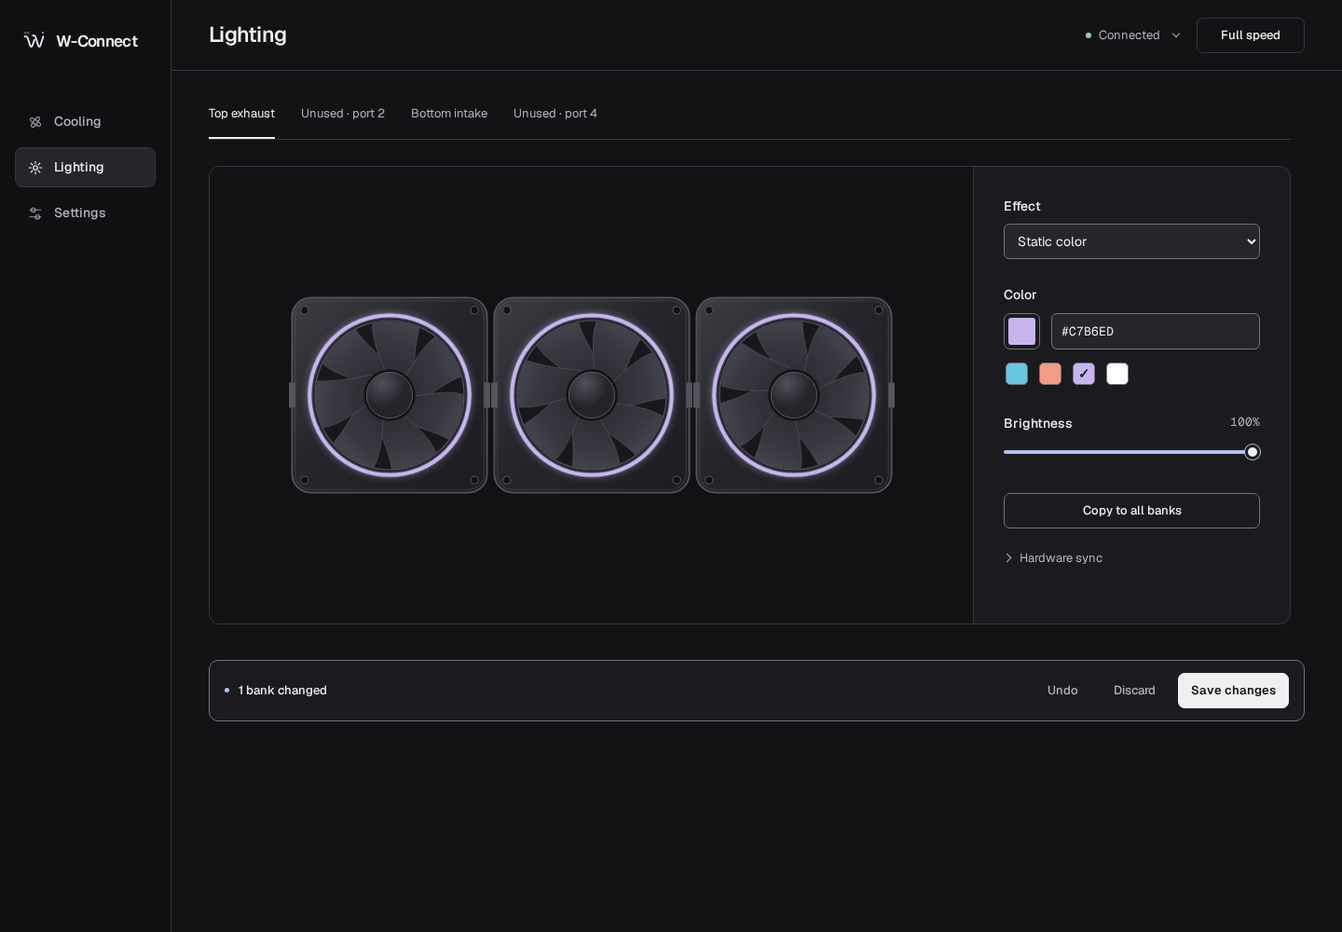
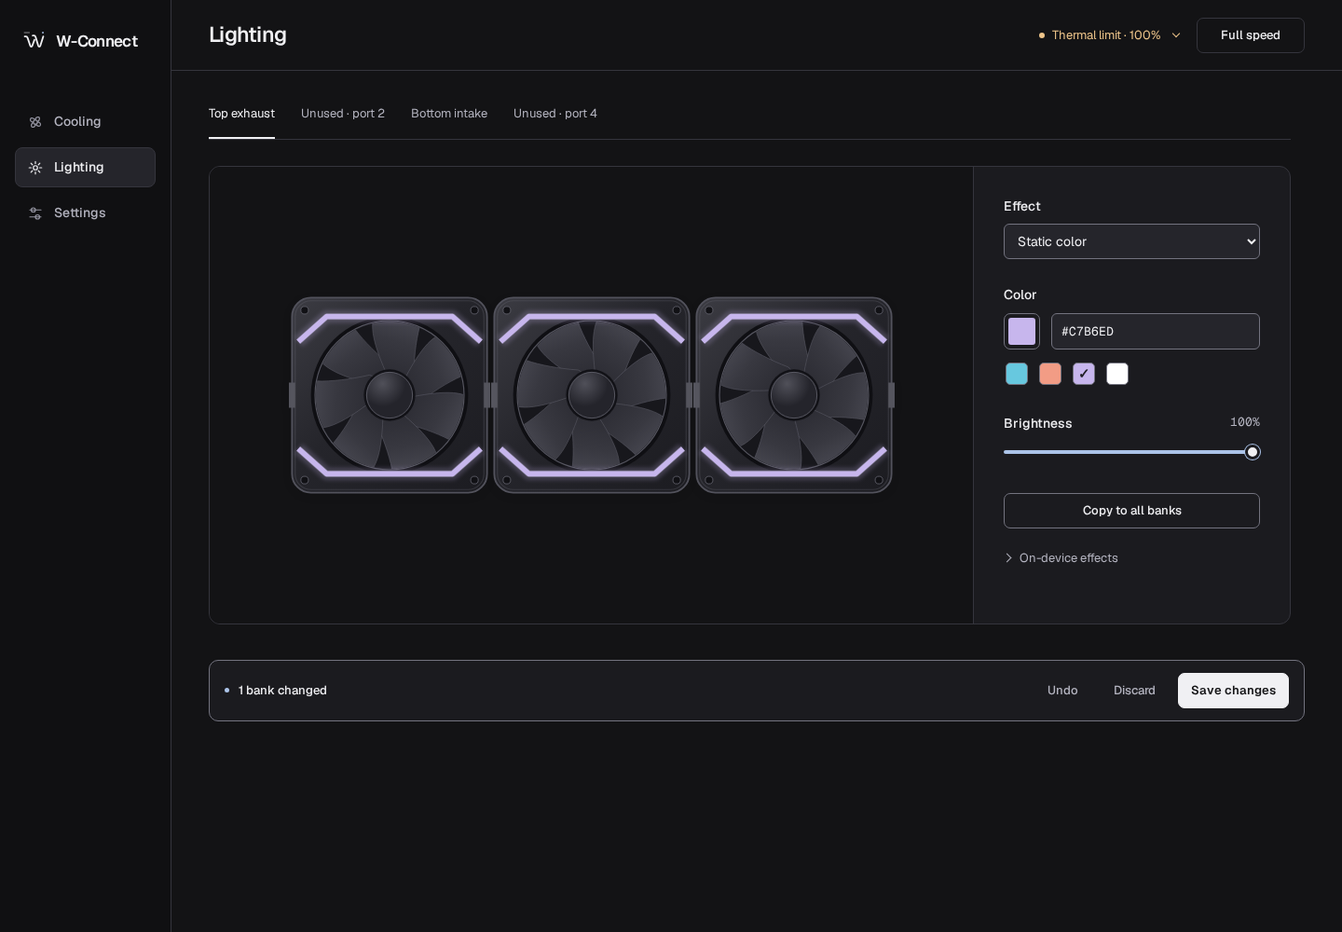
Match SL frame lighting and expose native controller effects

Changed region(s): [[0.2188, 0.31, 0.6562, 0.527], [0.7812, 0.031, 0.875, 0.062], [0.75, 0.589, 0.8438, 0.62]]

diff --git a/web/app.js b/web/app.js
@@ -60,12 +60,23 @@
     return finite(sensors.cpu) && finite(sensors.gpu) ? Math.max(sensors.cpu,sensors.gpu) : null;
   }
   let fanId=0;
-  function fanSVG(index) {
+  function lightingLayout() {
+    const pid=state?.controller?.pid;
+    const id=typeof pid==='number'?pid:Number.parseInt(pid,16);
+    return [0xa100,0x7750,0xa103,0xa105].includes(id)?'sl-frame':'ring';
+  }
+  function hardwareBrightness(value) {return value===0?0:clamp(Math.round(value/25)*25,25,100);}
+  function fanSVG(index, layout, mode) {
     const id=`fan-${++fanId}`;
-    return `<svg class="fan-unit" viewBox="0 0 64 64" aria-hidden="true">
-      <defs><linearGradient id="${id}-frame" x1="0" y1="0" x2="1" y2="1"><stop stop-color="#3c3c43"/><stop offset=".45" stop-color="#25252b"/><stop offset="1" stop-color="#1c1c21"/></linearGradient><linearGradient id="${id}-blade" x1="0" y1="0" x2="1" y2="1"><stop stop-color="#50505a"/><stop offset=".45" stop-color="#383840"/><stop offset="1" stop-color="#27272e"/></linearGradient><radialGradient id="${id}-hub" cx=".35" cy=".25"><stop stop-color="#505059"/><stop offset="1" stop-color="#24242b"/></radialGradient><clipPath id="${id}-aperture"><circle cx="32" cy="32" r="23.5"/></clipPath></defs>
-      <rect x="1" y="1" width="62" height="62" rx="6" fill="url(#${id}-frame)" stroke="#52525c" stroke-width=".55"/><rect x="2" y="2" width="60" height="60" rx="5" fill="none" stroke="#6c6c77" stroke-opacity=".3" stroke-width=".35"/><circle cx="32" cy="32" r="26" fill="#0f0f13"/><circle class="fan-glow" cx="32" cy="32" r="25.4"/><circle class="fan-ring" cx="32" cy="32" r="25.4"/><circle cx="32" cy="32" r="23.7" fill="#17171c" stroke="#55555f" stroke-width=".35"/>
+    const edge=layout==='sl-frame';
+    const shape=edge?'<path d="M3 15L12 7H52L61 15M3 49L12 57H52L61 49"/>':'<circle cx="32" cy="32" r="25.4"/>';
+    const spectrum=mode==='rainbow'?`url(#${id}-spectrum)`:'currentColor';
+    return `<svg class="fan-unit" viewBox="0 0 64 64" aria-hidden="true" style="--phase:${-index*1.25}s">
+      <defs><linearGradient id="${id}-frame" x1="0" y1="0" x2="1" y2="1"><stop stop-color="#3c3c43"/><stop offset=".45" stop-color="#25252b"/><stop offset="1" stop-color="#1c1c21"/></linearGradient><linearGradient id="${id}-blade" x1="0" y1="0" x2="1" y2="1"><stop stop-color="#50505a"/><stop offset=".45" stop-color="#383840"/><stop offset="1" stop-color="#27272e"/></linearGradient><radialGradient id="${id}-hub" cx=".35" cy=".25"><stop stop-color="#505059"/><stop offset="1" stop-color="#24242b"/></radialGradient><clipPath id="${id}-aperture"><circle cx="32" cy="32" r="23.5"/></clipPath><linearGradient id="${id}-spectrum" gradientUnits="userSpaceOnUse" x1="0" y1="0" x2="64" y2="0"><stop stop-color="#ff4848"/><stop offset=".17" stop-color="#ffcb45"/><stop offset=".34" stop-color="#79e864"/><stop offset=".5" stop-color="#45dfe8"/><stop offset=".67" stop-color="#6387ff"/><stop offset=".84" stop-color="#da65fa"/><stop offset="1" stop-color="#ff4848"/></linearGradient></defs>
+      <rect x="1" y="1" width="62" height="62" rx="6" fill="url(#${id}-frame)" stroke="#52525c" stroke-width=".55"/><rect x="2" y="2" width="60" height="60" rx="5" fill="none" stroke="#6c6c77" stroke-opacity=".3" stroke-width=".35"/><circle cx="32" cy="32" r="25" fill="#0f0f13"/><circle cx="32" cy="32" r="23.7" fill="#17171c" stroke="#55555f" stroke-width=".35"/>
       <g clip-path="url(#${id}-aperture)"><g class="fan-blades">${Array.from({length:7},(_,i) => `<path transform="rotate(${i*360/7+index*17} 32 32)" d="M28 29C20 27 10 24 9 19C10 14 16 11 21 11C24 15 28 19 33 23L35 28Z" fill="url(#${id}-blade)" stroke="#5a5a65" stroke-width=".16"/>`).join('')}</g></g><circle cx="32" cy="32" r="8.2" fill="#121217"/><circle cx="32" cy="32" r="7.3" fill="url(#${id}-hub)" stroke="#62626d" stroke-width=".25"/>
+      <g class="led-diffuser" fill="none" stroke="#55555e" stroke-width="${edge?2.1:1.3}" stroke-linejoin="round">${shape}</g>
+      <g class="led-motion"><g class="led-output" fill="none" stroke="${spectrum}" stroke-linejoin="round"><g class="led-glow">${shape}</g><g class="led-strip" stroke-width="${edge?1.7:1.1}">${shape}</g></g></g>
       ${[[5,5],[59,5],[5,59],[59,59]].map(([x,y])=>`<circle cx="${x}" cy="${y}" r="1.2" fill="#111115" stroke="#62626d" stroke-width=".25"/>`).join('')}<path d="M0 28h2v8H0m62-8h2v8h-2" fill="#55555e"/></svg>`;
   }
   function renderChannels() {
@@ -213,25 +224,28 @@
   function renderLighting() {
     const config = channel(); if (!config) return;
     const lighting = config.lighting || {mode:'preserve',color:'#67c8df',brightness:70};
+    const brightness=hardwareBrightness(lighting.brightness), layout=lightingLayout();
     $('lighting-unsupported').hidden = Boolean(state.controller?.lighting_supported);
     $('lighting-controls').disabled = !state.controller?.lighting_supported;
     $('lighting-mode').value = lighting.mode;
     $('lighting-color').value = lighting.color;
     if (document.activeElement !== $('color-hex')) {$('color-hex').value = lighting.color.toUpperCase();$('color-hex').removeAttribute('aria-invalid');}
     $('color-label').textContent = lighting.color.toUpperCase();
-    $('lighting-brightness').value = lighting.brightness;renderRange($('lighting-brightness'));
-    $('brightness-label').textContent = `${lighting.brightness}%`;
+    $('lighting-brightness').value = brightness;renderRange($('lighting-brightness'));
+    $('brightness-label').textContent = `${brightness}%`;
     $('lighting-brightness').title='Hardware brightness uses 25% steps';
     document.querySelectorAll('[data-color]').forEach(el=>el.setAttribute('aria-pressed',String(el.dataset.color.toLowerCase()===lighting.color.toLowerCase())));
-    $('color-controls').hidden = lighting.mode !== 'static';
+    $('color-controls').hidden = !['static','breathing'].includes(lighting.mode);
     $('lighting-brightness').disabled = ['preserve','off'].includes(lighting.mode);
     $('lighting-preview').classList.toggle('is-off',lighting.mode==='off');
     $('lighting-preview').classList.toggle('is-preserve',lighting.mode==='preserve');
     $('lighting-preview').classList.toggle('is-rainbow',lighting.mode==='rainbow');
+    $('lighting-preview').classList.toggle('is-breathing',lighting.mode==='breathing');
+    $('lighting-preview').dataset.layout=layout;
     $('lighting-preview').style.setProperty('--light-color',lighting.color);
-    $('lighting-preview').style.setProperty('--led-opacity',lighting.brightness/100);
-    $('lighting-preview').setAttribute('aria-label',`${config.fan_count} fans. ${lighting.mode==='preserve'?'Current lighting is not read back':lighting.mode==='off'?'Lights off':`${lighting.mode} lighting preview, ${lighting.brightness}% brightness`}.`);
-    $('lighting-preview').innerHTML = `<div class="fan-bank">${Array.from({length:clamp(config.fan_count || 1,1,6)},(_,index)=>fanSVG(index)).join('')}</div><span class="preview-caption">${lighting.mode==='preserve'?'Current hardware lighting is not read back':''}</span>`;
+    $('lighting-preview').style.setProperty('--led-opacity',brightness/100);
+    $('lighting-preview').setAttribute('aria-label',`${layout==='sl-frame'?'SL frame lighting':'Simplified lighting layout'}, ${config.fan_count} fans. ${lighting.mode==='preserve'?'Current lighting is not read back':lighting.mode==='off'?'Lights off':`${lighting.mode} lighting preview, ${brightness}% brightness`}.`);
+    $('lighting-preview').innerHTML = `<div class="fan-bank">${Array.from({length:clamp(config.fan_count || 1,1,6)},(_,index)=>fanSVG(index,layout,lighting.mode)).join('')}</div><span class="preview-caption">${lighting.mode==='preserve'?'Current hardware lighting is not read back':''}</span>`;
   }
   function renderSystem() {
     const rows = [['Driver verification',state.controller?.hardware_tested === true ? 'Hardware-tested on SL v1 a100' : state.controller?.connected ? 'Protocol-verified · hardware untested' : 'No active controller'],['Application',`W-Connect ${state.version || ''}`],['Platform',state.platform || 'Unknown'],['Controller',state.controller?.name || 'Unavailable'],['USB identifier',`${usbHex(state.controller?.vid)}:${usbHex(state.controller?.pid)}`],['Sensor source',state.sensors?.source || 'Unavailable'],['Polling interval',`${(state.config?.poll_ms || 2000)/1000} seconds`],['Running for',formatUptime(state.uptime_secs)],['Connection',failure ? 'Interrupted' : state.controller?.connected ? 'Connected' : 'Unavailable']];
@@ -259,7 +273,7 @@
     const editingField = document.activeElement?.matches('input, select') || dragging !== null;
     const shouldReset = !draft || reset || (!dirty && !editingField && configChanged);
     if (shouldReset) { draft=clone(state.config); selected=Math.min(selected,draft.channels.length-1); dirty=false; renderEditor(); dirtyChanged(); }
-    if(capabilitiesChanged)renderFanCountOptions();
+    if(capabilitiesChanged){renderFanCountOptions();if(!shouldReset)renderLighting();}
     $('loading').hidden=true;
     showView(view); renderTelemetry();
   }
@@ -382,7 +396,7 @@
       if(![1,2,3,4,5,6].includes(bank.fan_count)||!['curve','fixed'].includes(bank.mode)||!['cpu','gpu','max'].includes(bank.source)||!Number.isInteger(bank.fixed_duty)||bank.fixed_duty<40||bank.fixed_duty>100)throw new Error('The profile contains invalid bank settings.');
       const points=bank.curve;
       if(!Array.isArray(points)||points.length<2||points.length>10||points.some((p,i)=>!finite(p.temp)||!finite(p.duty)||p.temp<20||p.temp>85||p.duty<40||p.duty>100||(i>0&&(p.temp<=points[i-1].temp||p.duty<points[i-1].duty)))||points.at(-1).duty!==100)throw new Error('Curves must rise safely from 40% and reach 100% by 85°C.');
-      const l=bank.lighting;if(!l||!['preserve','static','rainbow','off'].includes(l.mode)||!/^#[0-9a-f]{6}$/i.test(l.color)||!Number.isInteger(l.brightness)||l.brightness<0||l.brightness>100)throw new Error('The profile contains invalid lighting settings.');
+      const l=bank.lighting;if(!l||!['preserve','static','breathing','rainbow','off'].includes(l.mode)||!/^#[0-9a-f]{6}$/i.test(l.color)||!Number.isInteger(l.brightness)||l.brightness<0||l.brightness>100)throw new Error('The profile contains invalid lighting settings.');
     }
     // Select only supported fields; never pass extra imported data to hardware.
     return {controller:clone(draft?.controller || {allow_untested:false,serial:null}),poll_ms:c.poll_ms,channels:c.channels.map(b=>({name:b.name,fan_count:b.fan_count,mode:b.mode,source:b.source,fixed_duty:b.fixed_duty,curve:b.curve.map(p=>({temp:p.temp,duty:p.duty})),lighting:{mode:b.lighting.mode,color:b.lighting.color,brightness:b.lighting.brightness}}))};

diff --git a/web/style.css b/web/style.css
@@ -1053,20 +1053,7 @@ input[type="range"]:disabled {
 .lighting-preview.is-preserve .fan-unit {
   color: var(--fan-stroke);
 }
-.lighting-preview.is-rainbow .fan-unit {
-  animation: spectrum-flow 12s linear infinite;
-}
-.lighting-preview.is-rainbow .fan-unit:nth-child(3n + 1) {
-  color: #8bb9d0;
-}
-.lighting-preview.is-rainbow .fan-unit:nth-child(3n + 2) {
-  color: #c7b6ed;
-  animation-delay: -4s;
-}
-.lighting-preview.is-rainbow .fan-unit:nth-child(3n) {
-  color: #e4ad99;
-  animation-delay: -8s;
-}
+
 fieldset {
   border: 0;
   padding: 0;
@@ -1574,18 +1561,7 @@ body.has-draft .toast {
     stroke-dashoffset: 100;
   }
 }
-@keyframes spectrum-flow {
-  0%,
-  100% {
-    color: #8bb9d0;
-  }
-  33% {
-    color: #c7b6ed;
-  }
-  66% {
-    color: #e4ad99;
-  }
-}
+
 @media (min-width: 1600px) {
   main {
     padding-top: 38px;
@@ -2526,4 +2502,39 @@ input[type="number"] {
   flex-shrink: 0;
   font-size: 12px;
   white-space: nowrap;
+}
+
+/* The SL's diffusers sit on the frame; its hub and blades are unlit. */
+.led-output {
+  opacity: var(--led-opacity, 1);
+}
+.led-glow {
+  stroke-width: 4;
+  opacity: 0.2;
+  filter: blur(0.7px);
+}
+.lighting-preview.is-rainbow .led-motion {
+  animation: led-spectrum 6s linear infinite;
+  animation-delay: var(--phase, 0s);
+}
+.lighting-preview.is-breathing .led-motion {
+  animation: led-breath 11s ease-in-out infinite;
+}
+.lighting-preview.is-off .led-output,
+.lighting-preview.is-preserve .led-output {
+  opacity: 0;
+}
+@keyframes led-spectrum {
+  to {
+    filter: hue-rotate(-360deg);
+  }
+}
+@keyframes led-breath {
+  0%,
+  100% {
+    opacity: 0.08;
+  }
+  50% {
+    opacity: 1;
+  }
 }

diff --git a/web/index.html b/web/index.html
@@ -309,6 +309,7 @@
                 ><select id="lighting-mode">
                   <option value="preserve">Keep current</option>
                   <option value="static">Static color</option>
+                  <option value="breathing">Breathing</option>
                   <option value="rainbow">Rainbow</option>
                   <option value="off">Off</option>
                 </select>
@@ -364,10 +365,18 @@
                   Copy to all banks
                 </button>
                 <details class="control-note">
-                  <summary>Hardware sync</summary>
+                  <summary>On-device effects</summary>
                   <p>
-                    Saving a lighting change disables motherboard RGB sync for
-                    this controller.
+                    Save uploads the effect to the controller. It keeps running
+                    after W-Connect exits while the controller stays powered.
+                  </p>
+                  <p>
+                    The saved profile is restored when W-Connect starts.
+                    Retention after power loss is unverified.
+                  </p>
+                  <p>
+                    Animation timing is approximate in this preview. Applying
+                    lighting disables motherboard RGB sync.
                   </p>
                 </details>
               </fieldset>

diff --git a/src/config.rs b/src/config.rs
@@ -137,7 +137,8 @@ impl Config {
             if c.curve.last().unwrap().duty != 100. {
                 return Err("Curves must end at 100% by 85°C".into());
             }
-            if !["preserve", "static", "rainbow", "off"].contains(&c.lighting.mode.as_str())
+            if !["preserve", "static", "breathing", "rainbow", "off"]
+                .contains(&c.lighting.mode.as_str())
                 || c.lighting.brightness > 100
             {
                 return Err("Invalid lighting mode or brightness".into());
@@ -214,6 +215,27 @@ mod tests {
         assert_eq!(interpolate(p, 0.), 40.);
         assert_eq!(interpolate(p, 40.), 42.5);
         assert_eq!(interpolate(p, 100.), 100.);
+    }
+    #[test]
+    fn native_lighting_profile_survives_save_and_reload() {
+        let mut c = Config::default();
+        c.channels[0].lighting = Lighting {
+            mode: "breathing".into(),
+            color: "#67c8df".into(),
+            brightness: 75,
+        };
+        let nonce = std::time::SystemTime::now()
+            .duration_since(std::time::UNIX_EPOCH)
+            .unwrap()
+            .as_nanos();
+        let dir =
+            std::env::temp_dir().join(format!("w-connect-lighting-{}-{nonce}", std::process::id()));
+        let file = dir.join("config.json");
+        c.save(&file).unwrap();
+        let restored: Config = serde_json::from_slice(&std::fs::read(&file).unwrap()).unwrap();
+        assert_eq!(restored, c);
+        restored.validate().unwrap();
+        std::fs::remove_dir_all(dir).unwrap();
     }
     #[test]
     fn rejects_unsafe_and_malformed_config() {

diff --git a/src/device.rs b/src/device.rs
@@ -780,6 +780,32 @@ mod tests {
         }
     }
     #[test]
+    fn breathing_uploads_native_effect_and_one_color_buffer() {
+        let packets = lighting_reports(model(0xa100), 0, 3, "breathing", [17, 34, 51], 70).unwrap();
+        assert!(packets.contains(&Packet::Control(vec![0xe0, 0x10, 2, 0, 0, 1])));
+        let colors: Vec<_> = packets
+            .iter()
+            .filter_map(|packet| {
+                if let Packet::Color(colors) = packet {
+                    Some(colors)
+                } else {
+                    None
+                }
+            })
+            .collect();
+        assert_eq!(colors.len(), 1);
+        assert_eq!(&colors[0][..2], &[0xe0, 0x30]);
+        for led in colors[0][2..146].as_chunks::<3>().0 {
+            assert_eq!(led, &[17, 51, 34]);
+        }
+        assert!(colors[0][146..].iter().all(|byte| *byte == 0));
+        assert_eq!(
+            packets.last(),
+            Some(&Packet::Control(vec![0xe0, 0x60, 0, 1]))
+        );
+        assert_eq!(packets.len(), 6);
+    }
+    #[test]
     fn brightness_off_and_model_fan_limits() {
         for (percent, encoded) in [(0, 8), (25, 3), (50, 2), (75, 1), (100, 0)] {
             let p = lighting_reports(model(0xa100), 0, 1, "rainbow", [0; 3], percent).unwrap();

diff --git a/docs/validation.md b/docs/validation.md
@@ -15,8 +15,8 @@ Host: Manjaro Linux x86_64; UNI FAN SL v1.8, USB `0cf2:a100`, interface1. CPU te
 
 ## Automated validation
 
-- Sixteen Rust unit tests (0.2): packet encoding and channel selection, descriptor matching, RPM parsing/rejection, RBG lighting, fan-count limits, thermal override/missing sensors/stale data, ramp-down, interpolation, configuration validation and origin protection.
-- Fourteen DOM behavior tests (current source): real/stale telemetry, draft preservation, save headers, emergency/resume, curve constraints, demo mode, unsupported lighting, critical-temperature notices.
+- Eighteen Rust unit tests (current source): packet encoding and channel selection, descriptor matching, RPM parsing/rejection, RBG lighting, fan-count limits, thermal override/missing sensors/stale data, ramp-down, interpolation, configuration validation and origin protection.
+- Fifteen DOM behavior tests (current source): real/stale telemetry, draft preservation, save headers, emergency/resume, curve constraints, demo mode, unsupported lighting, critical-temperature notices.
 - Rust formatting, Clippy with warnings denied, JavaScript syntax and release build.
 - Review by separate agents cross-checked protocol against vendor decompilation and prior art, then examined control-loop safety and installers.
 
@@ -27,6 +27,14 @@ The original mixed-functionality design ratings were superseded by [fresh-contex
 The neutral-theme revision passed browser checks across six view/theme combinations and 360, 390, 768, 1280 and 1440 px widths. Status changes (normal, hot, sensor unavailable, connection lost, recovery) left header and cooling-control geometry unchanged. The action footer did not overlap scrolling content. Keyboard curve editing, draft retention and reduced-motion handling passed. Axe reported zero A/AA findings. Both fonts are embedded, licensed and served locally. The extracted Linux package passed its USB-free smoke test with the new font routes.
 
 Additional driver tests cover exact family-specific PWM registers, legacy output transport, V2 RPM offsets, independent lighting rings, six-fan quantities, frame commits, spectrum palettes, descriptor validation, unknown-ID rejection, opt-in and unique selection. UI tests cover explicit activation, six-fan capability refresh and ensuring imports do not grant untested-driver permission. The original SL transfers remain covered by regression fixtures. A post-expansion browser scan, including the expanded controller catalog, also reported zero A/AA findings across all six view/theme combinations. The installed0.2 release reconnected to the actual SL hub, read both populated banks, returned the seven-model catalog with untested support disabled, and rejected a six-fan configuration for the four-fan SL model before any hardware change.
+
+## Controller-resident lighting
+
+SL v1 `0cf2:a100` was tested again with native breathing on the top bank while the bottom bank retained rainbow. After a clean service stop, process lookup confirmed that no `w-connect` process remained. The camera recorded 30 seconds at two frames per second: the top frame strips completed repeated red breathing cycles, and the bottom rainbow continued moving. This demonstrates controller-resident effects while powered, independently of both UI and service. The preview now uses SL frame strips, and its breathing period approximates the observed cycle.
+
+Restarting the service loaded and applied the saved breathing profile. The original rainbow profile was then restored and confirmed identical to the pre-test configuration. The populated banks read approximately 1800/1770 RPM afterward; clean stop had requested full cooling. Camera footage and credentials remain private and excluded from source/distribution.
+
+No system shutdown, SATA-power removal or firmware flash was performed. Controller persistence after complete power removal remains unverified; no nonvolatile-save command was found. See [controller-memory evidence](protocol.md#controller-memory-and-application-exit).
 
 ## Windows
 

diff --git a/docs/protocol.md b/docs/protocol.md
@@ -80,13 +80,23 @@ These are **SL v1** commands. SL-Infinity and AL use different ring/port layouts
 | Set bank fan quantity | Feature | `e0 10 32 ((c << 4) | count)` |
 | Upload bank colors | Output | `e0 (30 | c) [R B G]…` |
 | Set effect | Feature | `e0 (10 | c) mode speed direction brightness` |
-| Commit | Feature | `e0 60 00 01` |
+| Synchronize animation frame | Feature | `e0 60 00 01` |
 
 The SL v1 has at most four fans per bank and sixteen LED addresses per fan. Static colors repeat each fan's color across its sixteen addresses. Color triplets are **red, blue, green**, not RGB or GRB. The remainder of the 353-byte output report is zero-filled.
 
-W-Connect implements static (`mode=1`), breathing (`2`, available in the driver), rainbow (`5`), and off (static with brightness `8`). Effect speed `0` is medium; direction `0` is left-to-right. Brightness is discrete: `0` = 100%, `1` = 75%, `2` = 50%, `3` = 25%, `8` = off. The app rounds a requested brightness to these hardware levels. `preserve` sends no lighting commands.
+W-Connect implements static (`mode=1`), breathing (`2`), rainbow (`5`), and off (static with brightness `8`). Effect speed `0` is medium; direction `0` is left-to-right. Brightness is discrete: `0` = 100%, `1` = 75%, `2` = 50%, `3` = 25%, `8` = off. The app rounds a requested brightness to these hardware levels. `preserve` sends no lighting commands.
 
 Disabling motherboard sync and leaving merge mode are controller-wide lighting changes. They are necessary for independent bank effects and are applied only when the user requests a lighting change. Fan count is user configuration; it cannot be inferred reliably from one tachometer reading per bank.
+
+### Controller memory and application exit
+
+Static, breathing and rainbow are native controller effects. The host uploads a color buffer and effect settings once; it does not stream animation frames. Closing W-Connect leaves lighting alone. The saved JSON profile is reapplied when the service starts or reconnects.
+
+This is **controller-resident operation while powered**, not a verified write to flash. `E0 60 00 01` sets the animation frame; it is not an EEPROM-save command. No effect/color readback or explicit nonvolatile-save method was found in the SL v1 vendor path. OpenRGB also marks persistent saving as unsupported for this controller. Retention after complete power removal remains unverified.
+
+The [Lian Li FAQ](https://lian-li.com/faq/faq_l-connect-3/) documents continued effects after stopping L-Connect's service. Independent evidence: [OpenRGB SL controller capabilities](https://raw.githubusercontent.com/CalcProgrammer1/OpenRGB/master/Controllers/LianLiController/LianLiUniHubSLController/RGBController_LianLiUniHubSL.cpp), plus vendor `SLFanController.setLightingConfig`, `SLFanDevice.SetFrame` and PC-side `DeviceSettingManager.Save` described in [the interoperability notes](vendor-reverse-engineering.md).
+
+The SL preview uses its angular frame diffusers and unlit blades/hub. Its 32 physical LEDs do not imply 32 independently addressed colors: the verified protocol remains 16 logical addresses per fan. Rainbow/breathing previews approximate timing and LED traversal; they are not hardware readback.
 
 ## Platform requirements and operating policy
 

diff --git a/README.md b/README.md
@@ -10,9 +10,10 @@ A small, local controller for **Lian Li UNI FAN hubs**, on Linux and Windows. Na
 - Four independent fan banks with measured RPM, editable names and fan counts.
 - CPU, GPU, or hotter-of-both temperature curves; draggable graph and exact numeric editing.
 - Quiet, balanced and performance presets; fixed speed and full-speed override.
-- Hardware static color, rainbow, brightness and lights off. Existing lighting is preserved until changed. Applying lighting disables motherboard lighting sync and merged lighting globally.
+- Hardware static color, breathing, rainbow, brightness and lights off. Existing lighting is preserved until changed. Applying lighting disables motherboard lighting sync and merged lighting globally.
 - Light/dark/system appearance, reduced motion, configurable control interval, and profile import/export.
 - Stable animations and keyboard focus, undo, exact hex colors, and saved-versus-applied feedback.
+- Native lighting runs on the controller after the app exits while powered; saved profiles restore at startup. Permanent storage across power loss is unverified.
 - Saved configuration, automatic reconnection, desktop launcher and background startup.
 - Cooling continues when you close the page. UI changes are staged until **Save changes**.
 
@@ -52,6 +53,13 @@ The same local interface adapts to smaller windows.
 
 <a href="docs/screenshots/mobile-cooling.png"><img src="docs/screenshots/mobile-cooling.png" width="300" alt="Cooling dashboard in a narrow light-theme layout with stacked temperature readings, fan banks and curve controls"></a>
 <a href="docs/screenshots/mobile-lighting.png"><img src="docs/screenshots/mobile-lighting.png" width="300" alt="Lighting controls in a narrow dark-theme layout with a fan preview, color controls and save bar"></a>
+
+</details>
+
+<details>
+<summary><strong>Native rainbow · SL frame lighting</strong></summary>
+
+[![SL fan frame strips showing the native rainbow effect with brightness and controller-effect settings](docs/screenshots/lighting-rainbow.png)](docs/screenshots/lighting-rainbow.png)
 
 </details>
 
